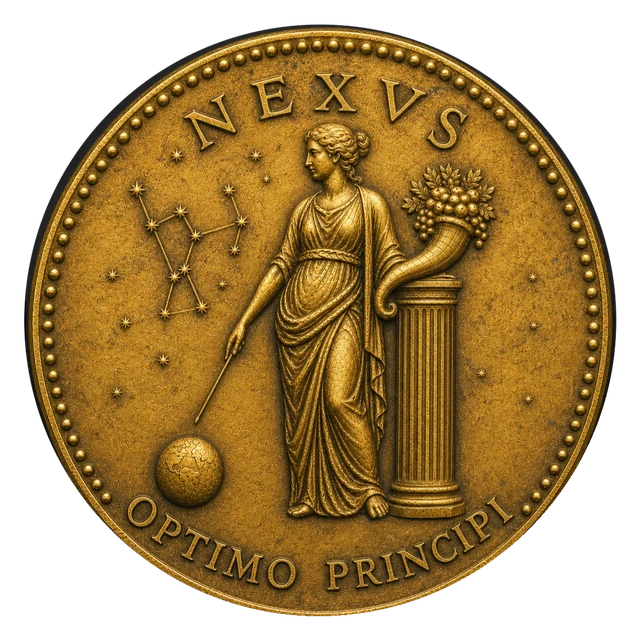
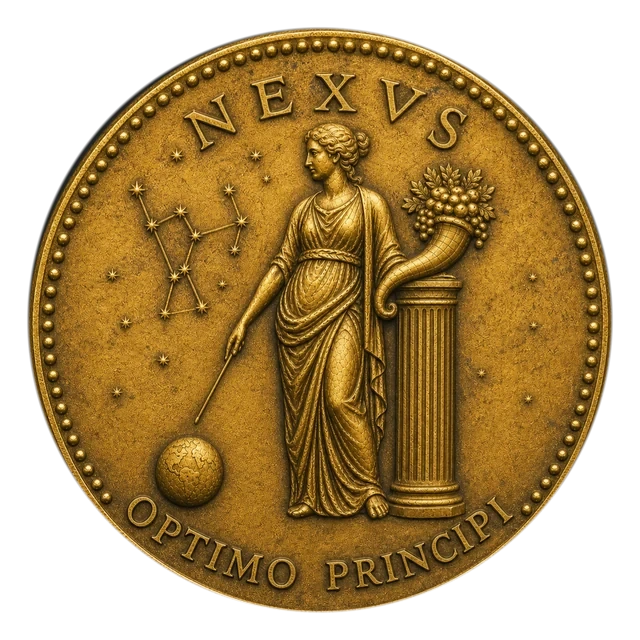
Welcome screen: clean coin edge + tidy clock-in card
The coin had a nearly-opaque dark rim baked into both webp faces (plus
a heavy black CSS drop-shadow) — invisible-ish on dark, but a dirty
black outline on the light theme. Trimmed the rim out of both assets
with a smooth alpha fade at the gold edge, softened the dark-theme
shadow, and gave light theme a warm brown ground shadow instead.

Clock-in card fixes:
- Card height is auto — the fixed 280px budget (from when the punch
  log lived inside) left a big dead zone under "My Timesheet"
- Location chips are an even 2-up grid instead of a ragged centered
  wrap that stranded one chip alone on the second row
- "NOT CLOCKED IN" no longer hardcodes white 40% (invisible on light);
  idle color comes from the theme token

Claude-Session: https://claude.ai/code/session_01QgpVQYxv8kBG15EGTN9CSB

diff --git a/index.html b/index.html
@@ -132,8 +132,15 @@
      a border-radius clip. We do still want the soft outer glow to make
      the coin feel lit and grounded against the dark background. */
   filter:
-    drop-shadow(0 4px 16px rgba(0, 0, 0, 0.5))
+    drop-shadow(0 6px 18px rgba(0, 0, 0, 0.32))
     drop-shadow(0 0 24px rgba(212, 164, 78, 0.18));
+}
+/* Light theme: a warm, soft ground shadow — the old black halo read as
+   a dirty outline against the cream background. */
+[data-theme="light"] .nx-coin-face {
+  filter:
+    drop-shadow(0 6px 16px rgba(93, 64, 22, 0.28))
+    drop-shadow(0 0 20px rgba(176, 131, 58, 0.15));
 }
 
 .nx-coin-front { transform: rotateY(0deg); }
@@ -532,9 +539,11 @@
   background: var(--nx-surface-1);
   border: 1px solid var(--nx-gold-line);
   border-radius: 18px;
-  height: 280px;          /* tightened from 360 — see comment above */
+  /* Auto height — the punch log moved out of this card; the old fixed
+     280px budget left a dead zone under "My Timesheet". */
+  height: auto;
   max-height: 50vh;       /* on very small screens, never overflow viewport */
-  overflow: hidden;       /* internal scroll only happens in tc-pin-log */
+  overflow: hidden;
   flex-shrink: 0;
 }
 
@@ -568,16 +577,19 @@
 /* One-tap punch: location chips (last-used preselected) + undo row.
    Chips replace the old two-step confirm screen — pick, tap, done. */
 #pinScreen .tc-loc-chips {
-  display: flex;
-  flex-wrap: wrap;
-  gap: 7px;
-  justify-content: center;
+  /* Even 2-up grid — the old centered wrap left an orphan chip on its
+     own row (Este / Remy / Suerte / ...Toti). */
+  display: grid;
+  grid-template-columns: repeat(2, minmax(0, 1fr));
+  gap: 8px;
   margin: 0 0 12px;
   flex-shrink: 0;
 }
 #pinScreen .tc-loc-chips:empty { display: none; }
 #pinScreen .tc-loc-chip {
-  padding: 8px 15px;
+  text-align: center;
+  width: 100%;
+  padding: 10px 12px;
   border-radius: 999px;
   font-size: 13px;
   font-weight: 500;

diff --git a/js/app.js b/js/app.js
@@ -4712,7 +4712,7 @@ NX.timeClock = {
         // screen, but the location makes the state legible at a glance).
         const loc = isIn && this._activeEntry?.location ? ' · ' + String(this._activeEntry.location).toUpperCase() : '';
         tcS.textContent = isIn ? 'CLOCKED IN' + loc : 'NOT CLOCKED IN';
-        tcS.style.color = isIn ? 'var(--green)' : 'rgba(255,255,255,.4)';
+        tcS.style.color = isIn ? 'var(--green)' : '';  // idle color comes from the theme token (white 40% was invisible on light)
       }
       // Location chips only matter before the punch — hide once clocked in.
       const chipsRow = document.getElementById('tcLocChipsRow');